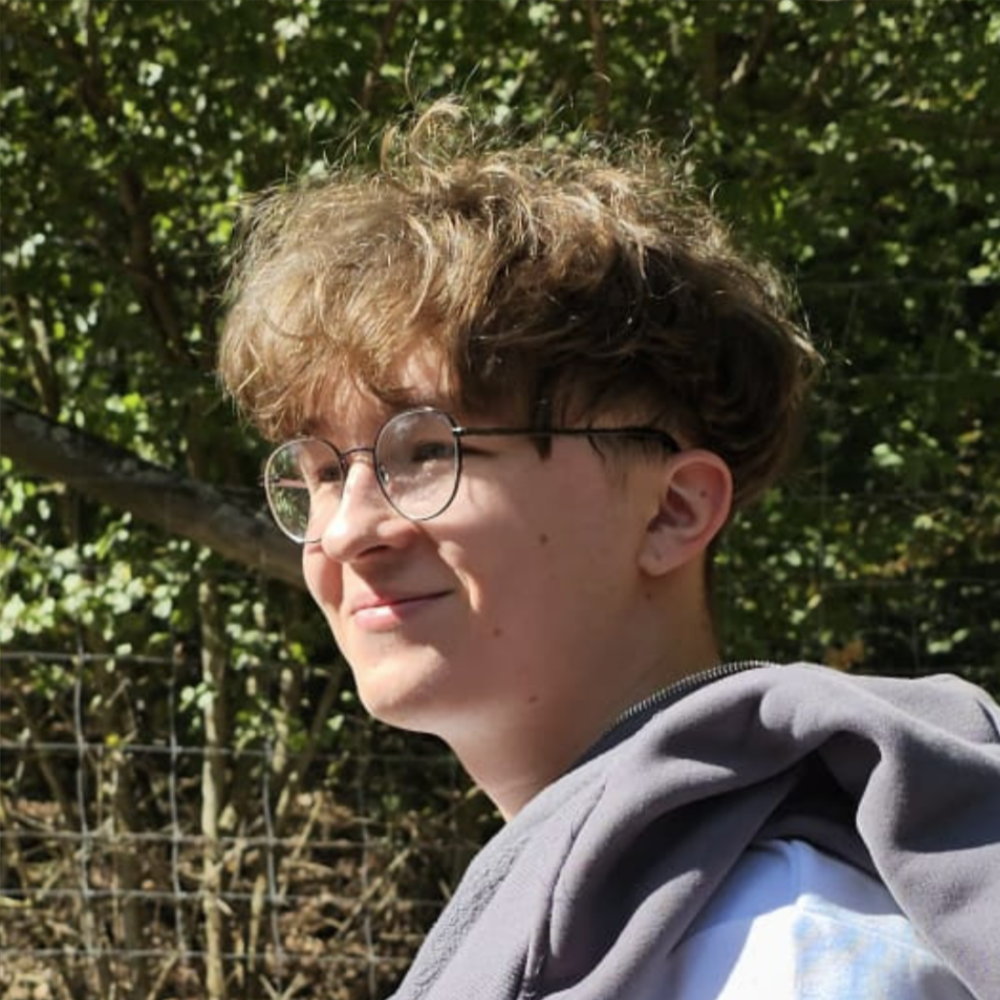
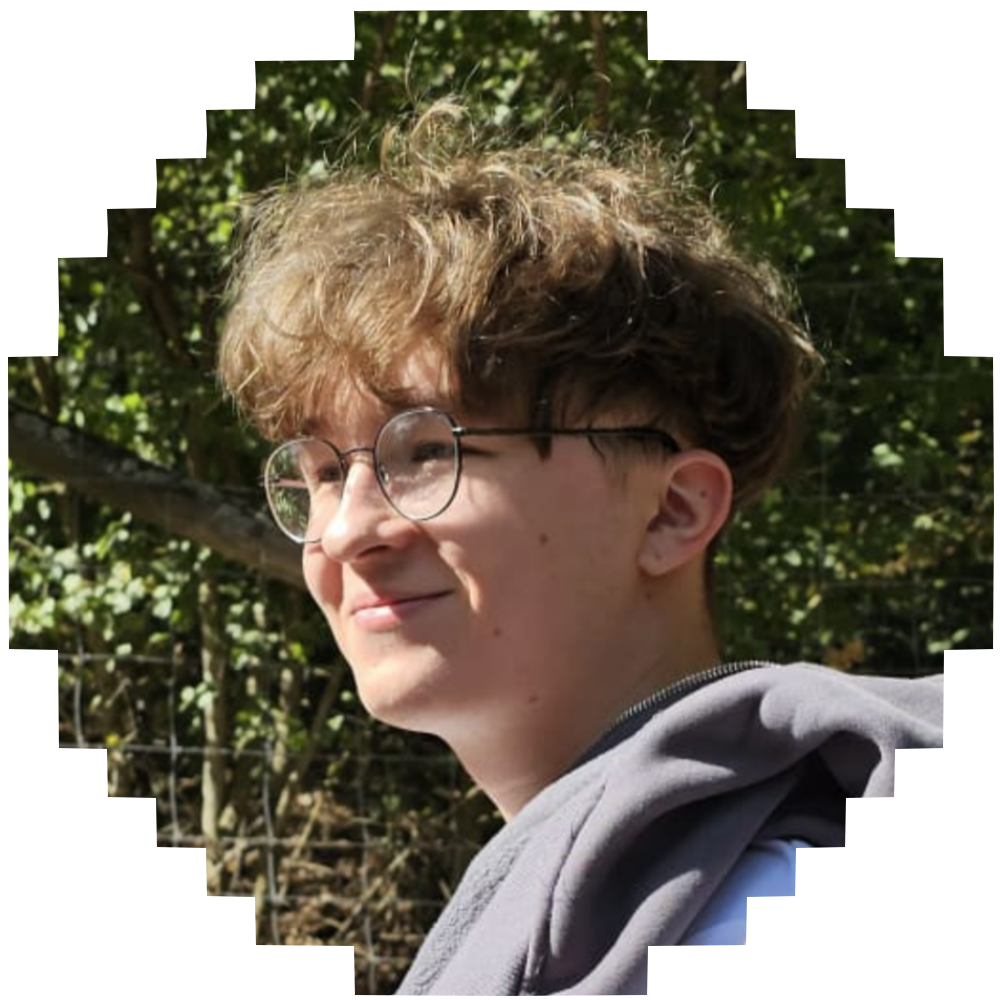
Visual Update
- fixed the text
- fixed minor visual issues with scaling
- fixed linked in icon
- new about pic !

Changed region(s): [[0.0, 0.0, 1.0, 1.0]]

diff --git a/index.html b/index.html
@@ -65,16 +65,13 @@
       <div class="section__text">
         <p class="section__text__p1">Hello I'm</p>
         <h1 class="title">Oleg Vagel</h1>
-        <p class="section__text__p2">A computer science B.Sc student</p>
+        <p class="section__text__p2">a computer science B.Sc student</p>
         <div class="btn-container">
-          <button
-            class="btn btn-color-2"
-            onclick="window.open('./assets/checkmark.png')"
-          >
-            Test 1
+          <button class="btn btn-color-2" onclick="location.href='./#projects'">
+            My Projects
           </button>
           <button class="btn btn-color-1" onclick="location.href='./#contact'">
-            Test 2
+            Contact me
           </button>
         </div>
         <div id="socials-container">
@@ -114,8 +111,8 @@
               />
               <h3>Experience</h3>
               <p>
-                0+ years <br />
-                Informatik studium
+                2+ semesters in <br />
+                computer science
               </p>
             </div>
             <div class="details-container">
@@ -131,6 +128,7 @@
               </p>
             </div>
           </div>
+          <!--
           <div class="text-container">
             <p>
               Lorem ipsum dolor sit amet consectetur, adipisicing elit. Officiis
@@ -139,7 +137,7 @@
               mollitia dignissimos perferendis?
             </p>
           </div>
-        </div>
+        --></div>
       </div>
       <img
         src="./assets/arrow.png"
@@ -149,12 +147,13 @@
       />
     </section>
     <section id="experience">
-      <p class="section__text__p1">Explore My</p>
-      <h1 class="title">Experience</h1>
+      <h1 class="title">Experiences</h1>
       <div class="experience-details-container">
         <div class="about-containers">
           <div class="details-container">
-            <h2 class="experience-sub-title">IT-Kenntnise</h2>
+            <h2 class="experience-sub-title">
+              Computer-Science related skills
+            </h2>
             <div class="article-container">
               <article>
                 <img
@@ -164,7 +163,7 @@
                 />
                 <div>
                   <h3>Microsoft Office</h3>
-                  <p>Sehr gut</p>
+                  <p>very good</p>
                 </div>
               </article>
               <article>
@@ -175,7 +174,7 @@
                 />
                 <div>
                   <h3>HTML/CSS/JS</h3>
-                  <p>gut</p>
+                  <p>good</p>
                 </div>
               </article>
               <article>
@@ -186,7 +185,7 @@
                 />
                 <div>
                   <h3>Python</h3>
-                  <p>gut</p>
+                  <p>good</p>
                 </div>
               </article>
               <article>
@@ -197,7 +196,7 @@
                 />
                 <div>
                   <h3>C++</h3>
-                  <p>gut</p>
+                  <p>good</p>
                 </div>
               </article>
               <article>
@@ -208,7 +207,45 @@
                 />
                 <div>
                   <h3>MySQL</h3>
-                  <p>Grundkenntnisse</p>
+                  <p>basic</p>
+                </div>
+              </article>
+            </div>
+          </div>
+          <div class="details-container">
+            <h2 class="experience-sub-title">other self taught skills</h2>
+            <div class="article-container">
+              <article>
+                <img
+                  src="./assets/checkmark.png"
+                  alt="Experience icon"
+                  class="icon"
+                />
+                <div>
+                  <h3>basic graphic design</h3>
+                  <p>good</p>
+                </div>
+              </article>
+              <article>
+                <img
+                  src="./assets/checkmark.png"
+                  alt="Experience icon"
+                  class="icon"
+                />
+                <div>
+                  <h3>3D modelling</h3>
+                  <p>basics</p>
+                </div>
+              </article>
+              <article>
+                <img
+                  src="./assets/checkmark.png"
+                  alt="Experience icon"
+                  class="icon"
+                />
+                <div>
+                  <h3>Art / Pixel-Art</h3>
+                  <p>good</p>
                 </div>
               </article>
             </div>
@@ -259,19 +296,19 @@
                 class="project-img"
               />
             </div>
-            <h2 class="experience-sub-title project-title">Project One</h2>
+            <h2 class="experience-sub-title project-title">coming soon</h2>
             <div class="btn-container">
               <button
                 class="btn btn-color-1"
-                onclick="location.href='www.youtube.com'"
+                onclick="location.href='https://www.youtube.com/watch?v=dQw4w9WgXcQ';"
               >
-                Github
+                soon
               </button>
               <button
                 class="btn btn-color-2"
-                onclick="location.href='www.youtube.com'"
+                onclick="location.href='https://www.youtube.com/watch?v=dQw4w9WgXcQ';"
               >
-                Demo
+                soon
               </button>
             </div>
           </div>
@@ -295,7 +332,7 @@
             alt="Email icon"
             class="icon contact-icon"
           />
-          <p><a href="mailto:example@gmail.com">example@gmail.com</a></p>
+          <p><a href="mailto:example@gmail.com">EMAIL-COMING-SOON</a></p>
         </div>
         <div class="contact-info-container">
           <img

diff --git a/style.css b/style.css
@@ -16,9 +16,6 @@
 * {
   margin: 0;
   padding: 0;
-}
-
-body {
   font-family: "Pixelify Sans", "Poppins", sans-serif;
 }
 
@@ -29,6 +26,9 @@ html {
 
 p {
   color: var(--lightTextColor);
+}
+img {
+  image-rendering: pixelated;
 }
 
 /* TRANSITION */
@@ -215,6 +215,7 @@ section {
 .title {
   font-size: 3rem;
   text-align: center;
+  padding-bottom: 2vh;
 }
 
 #socials-container {
@@ -302,15 +303,13 @@ section {
 .about-details-container {
   justify-content: center;
   flex-direction: column;
+  flex-wrap: wrap;
+  flex-grow: 1;
 }
 
 .about-containers,
 .about-details-container {
   display: flex;
-}
-
-.about-pic {
-  border-radius: 2rem;
 }
 
 .arrow {
@@ -375,7 +374,7 @@ section {
 article {
   display: flex;
   width: 12rem;
-  justify-content: space-around;
+  justify-content: flex-start;
   gap: 0.5rem;
   overflow: visible;
 }
